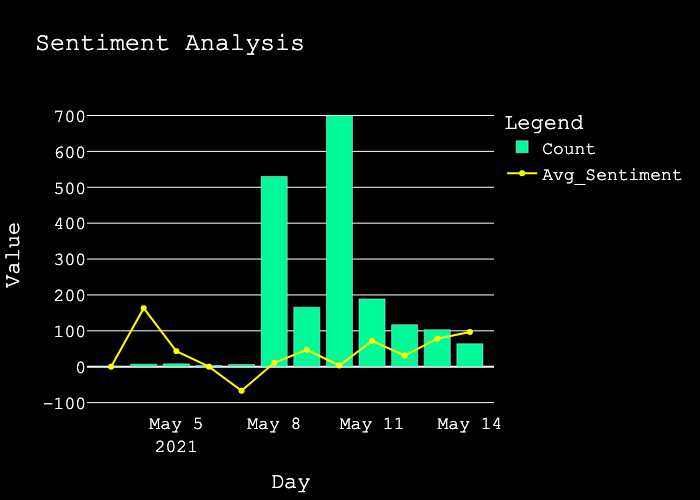
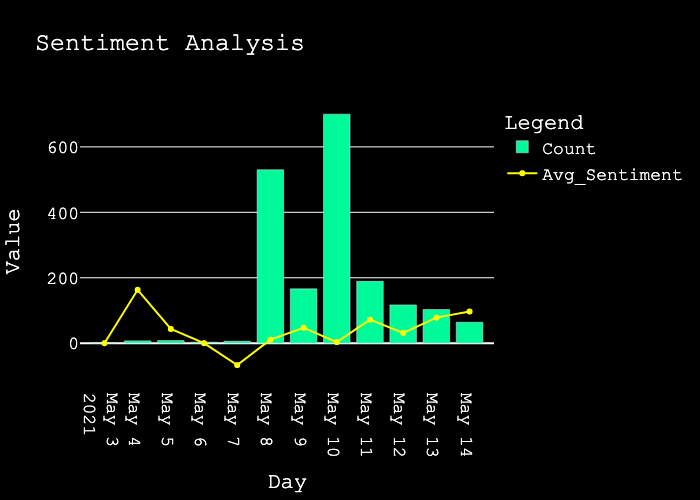
Visual_Change

diff --git a/visualization.py b/visualization.py
@@ -45,6 +45,9 @@ def plot_visu(df):
     fig.update_layout(
         title="Sentiment Analysis",
         xaxis_title="Day",
+        xaxis=dict(
+        title='Day',
+        tickmode='linear'),
         yaxis_title="Value",
         legend_title="Legend",
         paper_bgcolor="black",
